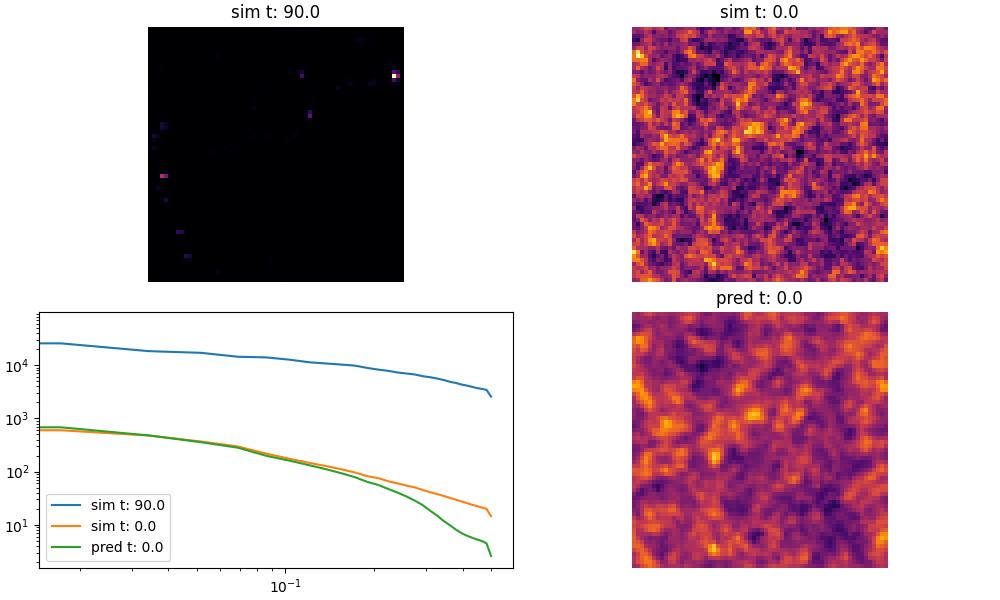
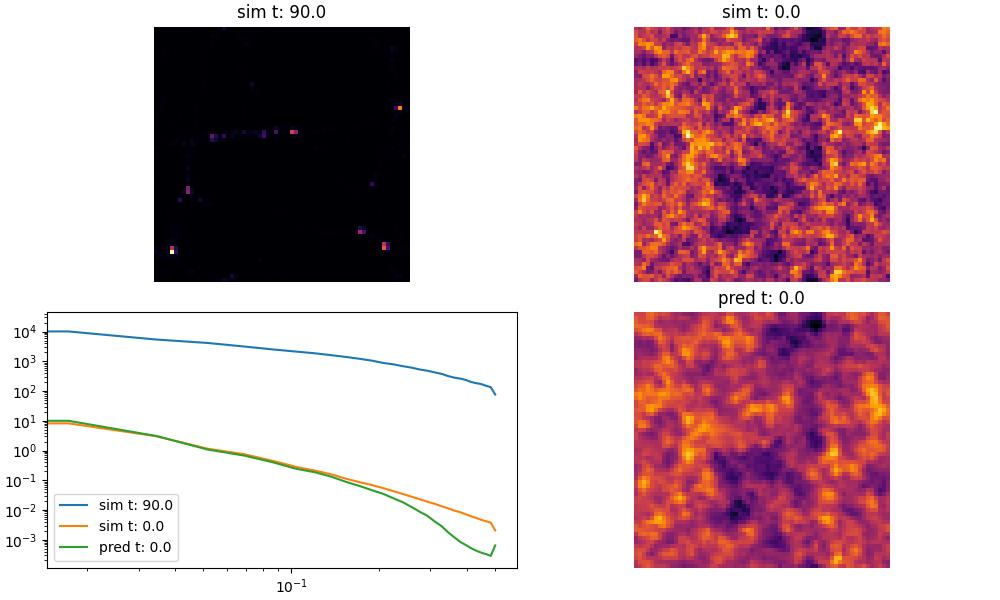
detected overfiting

diff --git a/src/nn/trainer.py b/src/nn/trainer.py
@@ -18,6 +18,27 @@ def mse_loss(
 
     return mse, next_pred
 
+@partial(jax.jit, static_argnums=[2])
+def predict_batch(
+        sequence : jax.Array,
+        model_params,
+        model_static : eqx.Module):
+    
+    n_frames = sequence.shape[1]
+
+    total_loss = 0
+
+    for i in range(n_frames-1):
+        loss, pred = mse_loss(
+            model_params, 
+            model_static, 
+            sequence[:, i],
+            sequence[:, i+1])
+        
+        total_loss += loss
+
+    return total_loss
+
 @partial(jax.jit, static_argnums=[2, 4])
 def learn_batch(
         sequence : jax.Array,
@@ -35,6 +56,8 @@ def learn_batch(
     n_frames = sequence.shape[1]
     value_and_grad = eqx.filter_value_and_grad(mse_loss, has_aux=True)
 
+    total_loss = 0
+
     for i in range(n_frames-1):
         (loss, pred), grad = value_and_grad(
             model_params, 
@@ -47,9 +70,10 @@ def learn_batch(
         model = eqx.combine(model_params, model_static)
         model = eqx.apply_updates(model, updates)
         model_params, model_static = eqx.partition(model, eqx.is_array)
-        # model_params = optax.apply_updates(model_params, updates)
 
-    return model_params, optimizer_state, loss
+        total_loss += loss
+
+    return model_params, optimizer_state, total_loss
 
 def train_model(
         model_params,
@@ -85,12 +109,10 @@ def train_model(
         for _, data in enumerate(val_data_iterator):
             sequence_d = jax.device_put(data['sequence'], jax.devices('gpu')[0])
 
-            model_params, optimizer_state, loss = learn_batch(
+            loss = predict_batch(
                 sequence_d,
                 model_params,
-                model_static,
-                optimizer_state,
-                optimizer)
+                model_static)
             epoch_val_loss.append(loss)
         
         epoch_train_loss = jnp.array(epoch_train_loss)

diff --git a/src/train.py b/src/train.py
@@ -42,29 +42,29 @@ def main(argv) -> None:
 
     # Initialize Neural Network
     init_rng = jax.random.key(0)
-    unet_hyperparams = {
-        "num_spatial_dims" : 3,
-        "in_channels" : 1,
-        "out_channels" : 1,
-        "hidden_channels" : 8,
-        "num_levels" : 4,
-        "padding" : 'SAME',
-        "padding_mode" : 'CIRCULAR'}
+    # unet_hyperparams = {
+    #     "num_spatial_dims" : 3,
+    #     "in_channels" : 1,
+    #     "out_channels" : 1,
+    #     "hidden_channels" : 8,
+    #     "num_levels" : 4,
+    #     "padding" : 'SAME',
+    #     "padding_mode" : 'CIRCULAR'}
 
-    model = nn.UNet(
-        activation=jax.nn.relu,
-        **unet_hyperparams,	
-        key=init_rng)
+    # model = nn.UNet(
+    #     activation=jax.nn.relu,
+    #     **unet_hyperparams,	
+    #     key=init_rng)
 
-    # sq_fno_hyperparams = {
-    #     "modes" : 20,
-    #     "hidden_channels" : 16,
-    #     "n_furier_layers" : 4}
+    sq_fno_hyperparams = {
+        "modes" : 20,
+        "hidden_channels" : 4,
+        "n_furier_layers" : 4}
 
-    # model = nn.FNO(
-    #     activation = jax.nn.relu,
-    #     key = init_rng,
-    #     **sq_fno_hyperparams)
+    model = nn.FNO(
+        activation = jax.nn.relu,
+        key = init_rng,
+        **sq_fno_hyperparams)
 
     model_params, model_static = eqx.partition(model, eqx.is_array)
 

diff --git a/src/generate.py b/src/generate.py
@@ -55,13 +55,13 @@ def main(argv) -> None:
         400)
     
     #euelerian_position = lagrangian_position + dspls * m_Dplus;
-    D_plus = cosmos.compute_growth_factor(time, config.Omega_M, config.Omega_L)
+    D_plus = cosmos.growth_factor_approx(time, config.Omega_M, config.Omega_L)
     
     displacement = (euelerian_position - lagrangian_position) / D_plus
 
-    v_fact = cosmos.compute_v_factor(time, config.Omega_M, config.Omega_L)
+    D_plus_da = cosmos.growth_factor_approx_deriv(config.Omega_M, config.Omega_L)
 
-    velocity = displacement * D_plus * v_fact
+    velocity = displacement * D_plus_da
 
     generate_tipsy(
         config.output_tipsy_file,

diff --git a/src/evaluate.py b/src/evaluate.py
@@ -27,13 +27,13 @@ def main(argv) -> None:
         steps = config.stride,
         stride = config.stride,
         flip=True,        
-        type = "train")
+        type = "val")
 
     data_pipeline = volumetric_sequence_pipe(dataset, config.grid_size)
     data_iterator = DALIGenericIterator(data_pipeline, ["sequence", "steps", "means"])
 
     data = next(data_iterator)
-    sequence = jax.device_put(data['sequence'], jax.devices('gpu')[0])[0]
+    sequence = jax.device_put(data['sequence'], jax.devices('gpu')[0])[3]
     pred = jnp.zeros_like(sequence)
 
     n_frames = sequence.shape[0]

diff --git a/src/cosmos/power_spectrum.py b/src/cosmos/power_spectrum.py
@@ -22,11 +22,11 @@ class PowerSpectrum(FrequencyOperation):
         delta_k = jnp.fft.rfftn(delta)
 
         power = jnp.zeros(self.n_bins)
-        power = power.at[self.index_grid].add(jnp.abs(delta_k))
+        power = power.at[self.index_grid].add(abs(delta_k) ** 2)
 
         # compute the average power
         power = power / self.n_modes
-        # power = power / (self.n_grid ** 3)
+        power = power / (self.n_grid ** 2 * self.nyquist)
 
         power = jnp.where(jnp.isnan(power), 0, power)
 

diff --git a/src/cosmos/growth_factor_approx.py b/src/cosmos/growth_factor_approx.py
@@ -1,0 +1,9 @@
+def growth_factor_approx(a : float, Omega_M : float, Omega_L : float):
+
+        return (5/2 * a * Omega_M) /\
+            (Omega_M**(4 / 7) - Omega_L + (1 + Omega_M / 2) * (1 + Omega_L / 70 ))
+
+def growth_factor_approx_deriv(Omega_M : float, Omega_L : float):
+
+        return (5/2 * Omega_M) /\
+            (Omega_M**(4 / 7) - Omega_L + (1 + Omega_M / 2) * (1 + Omega_L / 70 ))

diff --git a/src/data/sequential_data.py b/src/data/sequential_data.py
@@ -9,10 +9,10 @@ import nvidia.dali.types as types
 # local
 from cosmos import compute_overdensity
 
-BATCH_SIZE = 8
+BATCH_SIZE = 4
 TRAIN_SIZE = 0.8
-TEST_SIZE = 0.1
-VAL_SIZE = 0.1
+TEST_SIZE = 0.05
+VAL_SIZE = 0.05
 
 @pipeline_def(
     batch_size=BATCH_SIZE,

diff --git a/src/cosmos/__init__.py b/src/cosmos/__init__.py
@@ -3,3 +3,4 @@ from .frequency_operation import *
 from .power_spectrum import *
 from .potential import *
 from .growth_factor import *
+from .growth_factor_approx import *
